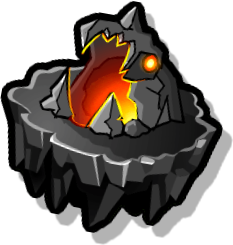
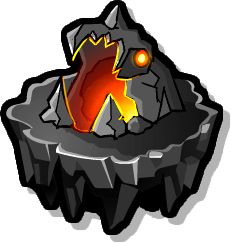
erm

diff --git a/src/main.cpp b/src/main.cpp
@@ -84,6 +84,7 @@ class $modify(CrazyLayer, MenuLayer) {
 					menu_selector(MenuLayer::onQuit));
 				cls_btn->setID("close-button");
 				closeMenu->addChild(cls_btn);
+				closeMenu->updateLayout();
 			}
 
 			if (loader->isModLoaded("weebify.restartbtn")) {
@@ -268,7 +269,7 @@ class $modify(CrazyLayer, MenuLayer) {
 		rightMenu->updateLayout();
 		rightMenu->getChildByID("daily-chest-button")->setZOrder(4);
 
-		auto questBtn = CCMenuItemSpriteExtra::create(CCSprite::createWithSpriteFrameName("RD_quests.png"_spr), this, menu_selector(CreatorLayer::onChallenge));
+		auto questBtn = CCMenuItemSpriteExtra::create(CCSprite::createWithSpriteFrameName("RD_quests2.png"_spr), this, menu_selector(CreatorLayer::onChallenge));
 		questBtn->setID("quest-button"_spr);
 		auto piVar2 = CCSprite::createWithSpriteFrameName("exMark_001.png");
 		piVar2->setScale(0.55f);
@@ -287,7 +288,7 @@ class $modify(CrazyLayer, MenuLayer) {
 		}
 		rightMenu->addChild(questBtn, 3);
 
-		auto mapPacksBtn = CCMenuItemSpriteExtra::create(CCSprite::createWithSpriteFrameName("RD_mappacks.png"_spr), this, menu_selector(CreatorLayer::onMapPacks));
+		auto mapPacksBtn = CCMenuItemSpriteExtra::create(CCSprite::createWithSpriteFrameName("RD_mappacks2.png"_spr), this, menu_selector(CreatorLayer::onMapPacks));
 		rightMenu->addChild(mapPacksBtn, 1);
 
 		auto playerUsername = this->getChildByID("player-username");
@@ -366,6 +367,16 @@ class $modify(CrazyLayer, MenuLayer) {
 		
 		mainMenu->updateLayout();
 		menu->addChild(mainMenu);
+
+		if (mod->getSettingValue<bool>("rotate-buttons-logos")) {
+			for (auto& button: CCArrayExt<RDButton*>(mainMenu->getChildren())) {
+				if (button->getPositionX() < mainMenu->getContentWidth()/2) {
+					button->rotateIcon(10.f);
+				} else if (button->getPositionX() > mainMenu->getContentWidth()/2) {
+					button->rotateIcon(-10.f);
+				}
+			}
+		}
 
 		auto dailiesMenu = CCMenu::create();
 		dailiesMenu->setID("dailies-menu"_spr);

diff --git a/src/ui/RDButton.cpp b/src/ui/RDButton.cpp
@@ -23,16 +23,15 @@ bool RDButton::init(CCObject* target, std::string title, std::initializer_list<s
 
     auto icon = CCSprite::createWithSpriteFrameName(sprite.c_str());
     icon->setScale(spriteScale);
-	icon->setAnchorPoint({ 1, 0.5f});
-    icon->setPosition(ccp(148, 35));
-	if (id == "saved-button") icon->setPositionX(153);
+    icon->setPosition(ccp(148, 35) - ccp(icon->getScaledContentWidth()/2, 0));
+	if (id == "saved-button") icon->setPositionX(icon->getPositionX() + 5.f);
 	icon->setID("icon-sprite");
     spriteNode->addChild(icon);
 
 	auto labelMenu = CCMenu::create();
 	if (!Mod::get()->getSettingValue<bool>("ltr-texts")) {
 		labelMenu->setAnchorPoint({ 1, 0.5f });
-		labelMenu->setPosition( { icon->getPositionX() - icon->getScaledContentWidth() - 2.5f, 35.f });
+		labelMenu->setPosition( { icon->getPositionX() - icon->getScaledContentWidth()/2 - 2.5f, 35.f });
 	} else {
 		labelMenu->setAnchorPoint({ 0, 0.5f });
 		labelMenu->setPosition( { 7.5f, 35.f });
@@ -127,6 +126,14 @@ void RDButton::updateLeaderboardLabel() {
 	m_labelMenu->setVisible(true);
 	as<CCLabelBMFont*>(m_labelMenu->getChildByID("desc-label-2"))->setString(fmt::format("#{}", Variables::GlobalRank).c_str());
 	m_labelMenu->updateLayout();
+}
+
+void RDButton::rotateIcon(float rotation) {
+	if (this->getID() != "search-button") {
+		if (auto icon = this->getChildByIDRecursive("icon-sprite")) {
+			icon->setRotation(rotation);
+		}
+	}
 }
 
 RDButton* RDButton::create(CCObject* target, std::string title, std::initializer_list<std::string> description, std::string sprite, float spriteScale, cocos2d::SEL_MenuHandler callback, std::string id) {

diff --git a/src/hooks/onBackHooks.hpp b/src/hooks/onBackHooks.hpp
@@ -3,10 +3,20 @@ using namespace geode::prelude;
 
 #include <Geode/modify/GauntletSelectLayer.hpp>
 class $modify(GauntletSelectLayer) {
+	#ifndef GEODE_IS_MACOS
 	void onBack(cocos2d::CCObject* sender) {
 		CCScene* sc = MenuLayer::scene(false);
     	CCDirector::sharedDirector()->replaceScene(CCTransitionFade::create(0.5f, sc));
 	}
+	#endif
+
+	#ifdef GEODE_IS_MACOS
+	void onExit() {
+		CCScene* sc = MenuLayer::scene(false);
+        CCDirector::sharedDirector()->replaceScene(CCTransitionFade::create(0.5f, sc));
+		SecretLayer2::onExit();
+	}
+	#endif
 };
 
 #include <Geode/modify/SecretRewardsLayer.hpp>
@@ -28,15 +38,25 @@ class $modify(SecretRewardsLayer) {
 #include <Geode/modify/SecretLayer2.hpp>
 class $modify(SecretLayer2) {
 	// same here
-	#ifndef GEODE_IS_ANDROID
+	#ifdef GEODE_IS_WINDOWS
 	void keyBackClicked() {
 		CCScene* sc = MenuLayer::scene(false);
 		CCDirector::sharedDirector()->replaceScene(CCTransitionFade::create(0.5f, sc));
 	}
 	#endif
 
+	#ifndef GEODE_IS_MACOS
 	void onBack(cocos2d::CCObject* sender) {
 		CCScene* sc = MenuLayer::scene(false);
         CCDirector::sharedDirector()->replaceScene(CCTransitionFade::create(0.5f, sc));
 	}
+	#endif
+
+	#ifdef GEODE_IS_MACOS
+	void onExit() {
+		CCScene* sc = MenuLayer::scene(false);
+        CCDirector::sharedDirector()->replaceScene(CCTransitionFade::create(0.5f, sc));
+		SecretLayer2::onExit();
+	}
+	#endif
 };

diff --git a/src/ui/RDButton.hpp b/src/ui/RDButton.hpp
@@ -9,6 +9,7 @@ public:
 
     void updateLeaderboardLabel();
     void getLeaderboardRankFailed();
+    void rotateIcon(float rotation);
 
     static RDButton* create(CCObject* target, std::string title, std::initializer_list<std::string> description, std::string sprite, float spriteScale, cocos2d::SEL_MenuHandler callback, std::string id);
     bool init(CCObject* target, std::string title, std::initializer_list<std::string> description, std::string sprite, float spriteScale, cocos2d::SEL_MenuHandler callback, std::string id);

diff --git a/changelog.md b/changelog.md
@@ -1,6 +1,7 @@
 # Overcharged Main Menu Changelog
 ## v1.0.3
 - Fixed an Android crash with GDUtils
+- Fixed Intel MacOS crash (sorry for the 2 people that got affected by this)
 - Fixed another web requests spam bug related to the daily level reset...
 ## v1.0.2
 - Added customization settings for the stats nodes
